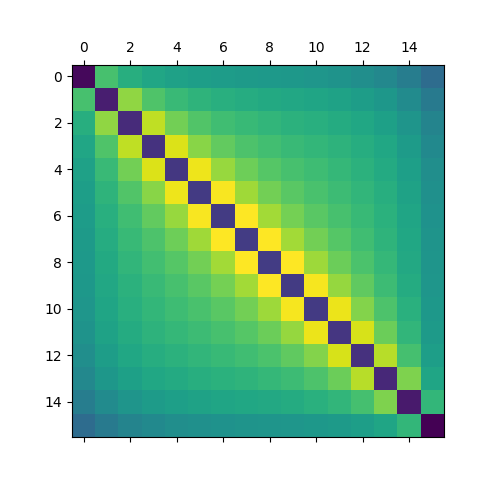
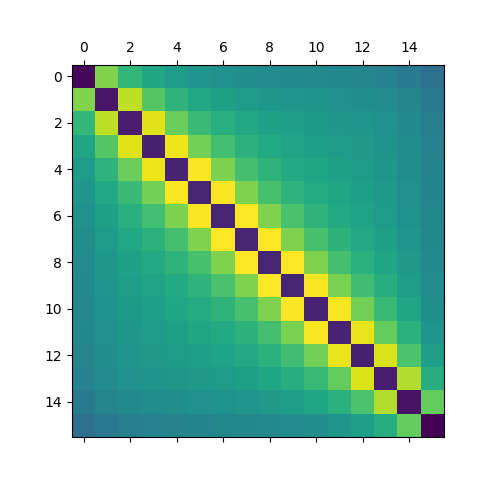
Transformer fast transient

diff --git a/examples/CurrentBalancing/models.py b/examples/CurrentBalancing/models.py
@@ -41,11 +41,12 @@ class BaseModel:
         # solver setup
         femm_metadata = FemmMetadata()
         femm_metadata.problem_type = "magnetic"
-        femm_metadata.coordinate_type = "axisymmetric"
+        femm_metadata.coordinate_type = "planar"
+        femm_metadata.depth = 1000 # or 1 ???
         femm_metadata.file_script_name = self.file_solver_script
         femm_metadata.file_metrics_name = self.file_solution
         femm_metadata.unit = "millimeters"
-        femm_metadata.smartmesh = True
+        femm_metadata.smartmesh = False
         self.platform = Femm(femm_metadata)
 
         self.snapshot = Snapshot(self.platform)
@@ -57,9 +58,11 @@ class BaseModel:
 
     def define_materials(self):
         air = Material("air")
+        # air.meshsize = 0.5
         hv = Material("Primary")
-        hv.Je = 30e3 / (30 * 1100) * 1e6
-        hv.Je = 5 / (30 * 1100) * 1e6
+        # hv.Je = 30e3 / (30 * 1100) * 1e6
+        # hv.Je = 1 / (30 * 1100) * 1e6
+        hv.Je = 0.0
 
         ii = Material("Ii")
         ii.Je = self.Ii / (33 * 62.5) * 1e6
@@ -79,12 +82,12 @@ class BaseModel:
     def init_geometry(self):
         air = ModelPiece("air")
         air.load_piece_from_svg(self.dir_resources / "air.svg")
-        air.put(495, 0)
+        air.put(495/2, 0)
         self.g.merge_geometry(air.geom)
 
         hv_coil = ModelPiece("hv_coil")
         hv_coil.load_piece_from_svg(self.dir_resources / "hv_coil.svg")
-        hv_coil.put(595, 80)
+        hv_coil.put(595/2, 80)
         self.g.merge_geometry(hv_coil.geom)
 
         lv_coil = ModelPiece("lv_coil")
@@ -94,7 +97,7 @@ class BaseModel:
         for k in range(16):
             coil = lv_coil.spawn()
             offset += 62.5 + self.X[k]
-            coil.put(750, 1280 - offset)
+            coil.put(750/2, 1280 - offset)
             self.g.merge_geometry(coil.geom)
 
         self.g.merge_lines()
@@ -102,30 +105,30 @@ class BaseModel:
         self.g.export_svg(self.dir_export / "geom.svg")
 
     def assign_blocklabels(self):
-        self.snapshot.assign_material(605, 699, "Primary")
-        self.snapshot.assign_material(523, 1036, "air")
+        self.snapshot.assign_material(605/2, 699, "Primary")
+        self.snapshot.assign_material(523/2, 1036, "air")
         offset = 0.0
         for k in range(16):
             offset += 62.5 + self.X[k]
             if k == self.i:
-                self.snapshot.assign_material(750 + 33.0 / 2, 1280 - offset + 62.5 / 2, "Ii")
+                self.snapshot.assign_material((750 + 33.0 / 2)/2, 1280 - offset + 62.5 / 2, "Ii")
             elif k == self.j:
-                self.snapshot.assign_material(750 + 33.0 / 2, 1280 - offset + 62.5 / 2, "Ij")
+                self.snapshot.assign_material((750 + 33.0 / 2)/2, 1280 - offset + 62.5 / 2, "Ij")
             else:
-                self.snapshot.assign_material(750 + 33.0 / 2, 1280 - offset + 62.5 / 2, "air")
+                self.snapshot.assign_material((750 + 33.0 / 2)/2, 1280 - offset + 62.5 / 2, "air")
 
     def assign_boundary_conditions(self):
-        self.snapshot.assign_boundary_condition(493, 695, "a0")
-        self.snapshot.assign_boundary_condition(758, 1280, "a0")
-        self.snapshot.assign_boundary_condition(758, 0, "a0")
-        self.snapshot.assign_boundary_condition(996, 644, "a0")
+        self.snapshot.assign_boundary_condition(493/2, 695, "a0")
+        self.snapshot.assign_boundary_condition(758/2, 1280, "a0")
+        self.snapshot.assign_boundary_condition(758/2, 0, "a0")
+        self.snapshot.assign_boundary_condition(996/2, 644, "a0")
 
     def add_postprocesssing(self):
-        entities = [(605, 699), (523, 1036)]
+        entities = [(605/2, 699), (523/2, 1036)]
         offset = 0.0
         for k in range(16):
             offset += 62.5 + self.X[k]
-            entities.append((750 + 33.0 / 2, 1280 - offset + 62.5 / 2))
+            entities.append(((750 + 33.0 / 2)/2, 1280 - offset + 62.5 / 2))
         self.snapshot.add_postprocessing("integration", entities, "Energy")
 
     def __call__(self, cleanup=True, timeout=1e6):
@@ -138,7 +141,7 @@ class BaseModel:
                 self.snapshot.execute(cleanup=False, timeout=1e6)
             else:
                 self.snapshot.export(develmode=False)
-                self.snapshot.execute(cleanup=cleanup, timeout=timeout)
+                self.snapshot.execute(cleanup=False, timeout=timeout)
 
             res = self.snapshot.retrive_results()
 
@@ -167,21 +170,78 @@ if __name__ == "__main__":
     X = [5] * 16
     X[0] = 114
 
-    E = zeros((16, 16))
-    M = zeros((16, 16))
+    E = zeros((17, 17))
+    M = zeros((17, 17))
 
     # m = BaseModel(X, i=1, j=10, exportname="dev")
-    for i in range(0, 16):
-        for j in range(i, 16):
-            m = BaseModel(X, i=i, j=j)
-            Eij = m(cleanup=True)
-            E[i, j] = Eij
-            E[j, i] = Eij
-            print(f"{Eij:.3e}", end=" ")
-        print()
+    # for i in range(0, 16):
+    #     for j in range(i, 17):
+    #         m = BaseModel(X, i=i, j=j)
+    #
+    #         if j==16:
+    #             # m.snapshot.materials['Ii'].Je = 0.0
+    #             m.snapshot.materials['Ij'].Je = 0.0
+    #             m.snapshot.materials['Primary'].Je = 1 / (30 * 1100) * 1e6
+    #
+    #         Eij = 2 * m(cleanup=True)
+    #         E[i, j] = Eij
+    #         E[j, i] = Eij
+    #         print(f"{Eij:.3e}", end=" ")
+    #     print()
+    #
+    # m = BaseModel(X, i=0, j=0)
+    # m.snapshot.materials['Ii'].Je = 0.0
+    # m.snapshot.materials['Ij'].Je = 0.0
+    # m.snapshot.materials['Primary'].Je = 1 / (30 * 1100) * 1e6
+    # E[16, 16] = 2 * m(cleanup=True)
+    #
+    #
+    # np.savetxt(BaseModel.dir_resources / "E.txt", E)
 
-    print(E)
-    np.savetxt(BaseModel.dir_resources / "Em.txt", E)
-    plt.matshow(E)
-    plt.savefig(BaseModel.dir_current / "docs/media/Ematrix.png")
+    E = np.loadtxt(BaseModel.dir_resources / "E.txt")
+    M = np.zeros_like(E)
+
+    for i in range(16):
+        M[i, i] = 2 * E[i, i] / (1.0 ** 2)
+
+    for j in range(16):
+        for k in range(j+1, 16):
+            M[j, k] = (E[j, k] - (M[j, j] + M[k, k])) / (1.0 * 1.0)
+            M[k, j] = M[j, k]
+
+    # plt.matshow(M)
+    # plt.savefig(BaseModel.dir_current / "docs/media/Mmatrix.png")
+    # plt.colorbar()
+    # plt.show()
+    #
+    plt.figure()
+    plt.bar(range(16), M[0, :-1])
     plt.show()
+
+    # B = np.ones((16, 16))
+    # B[:, ::2] = B[:, ::2]-2
+    # B = np.eye(17)
+    # B[16, 16] = -16
+    # M = M * 2 * np.pi * 50
+    # Zm = np.dot(B, np.dot(M, B.T))
+    #
+    #
+    # Minv = np.linalg.inv(M)
+    # V = np.ones(16)*1
+    # plt.bar(range(16), np.dot(Zm, V))
+    # plt.show()
+
+    # m = BaseModel(X, i=0, j=0, exportname="djev")
+    # m(cleanup=False)
+
+    # Wm =[]
+    # for j in range(10):
+    #     m = BaseModel(X, i=0, j=j)
+    #     Wm.append(2 * m(cleanup=True))
+    #
+    #
+    # plt.bar(range(10), Wm)
+    # plt.show()
+
+    # m = BaseModel(X, i=1, j=10, exportname="deawdv")
+    # m(cleanup=False)
